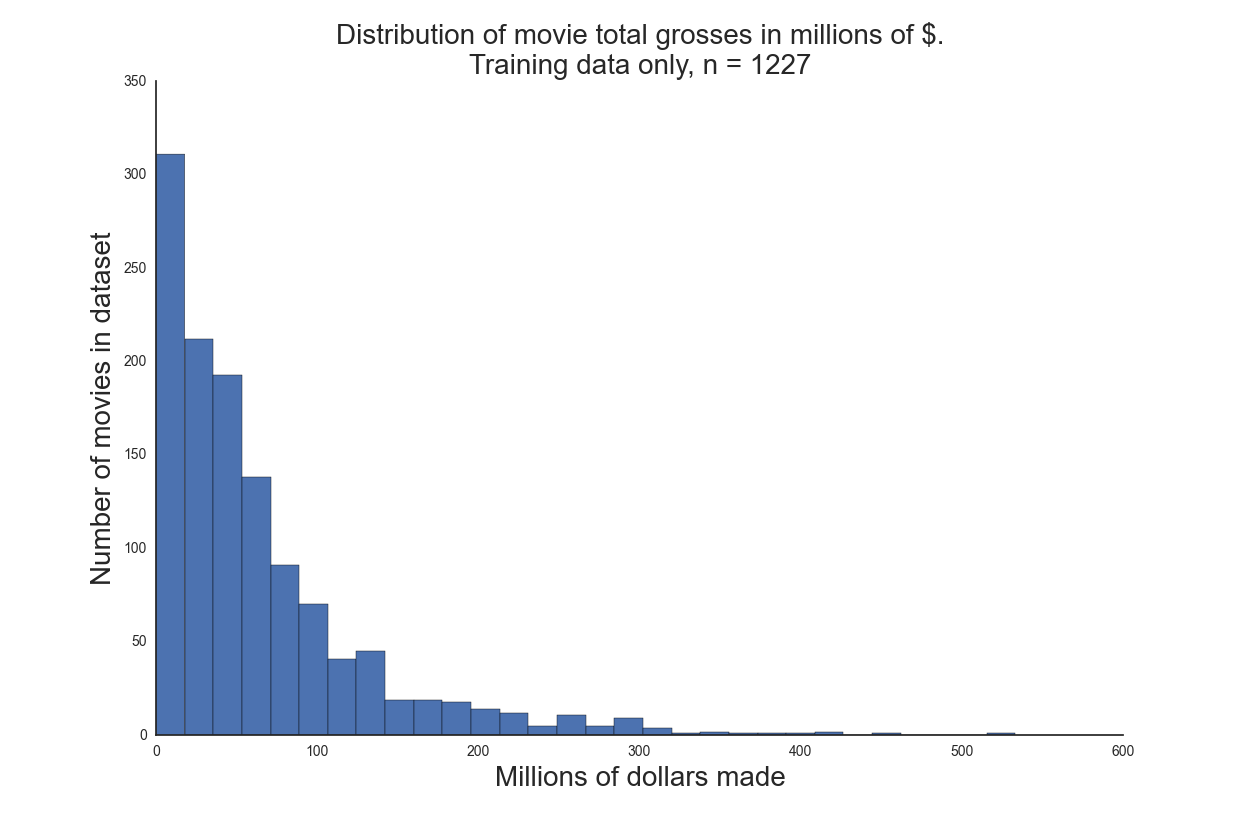
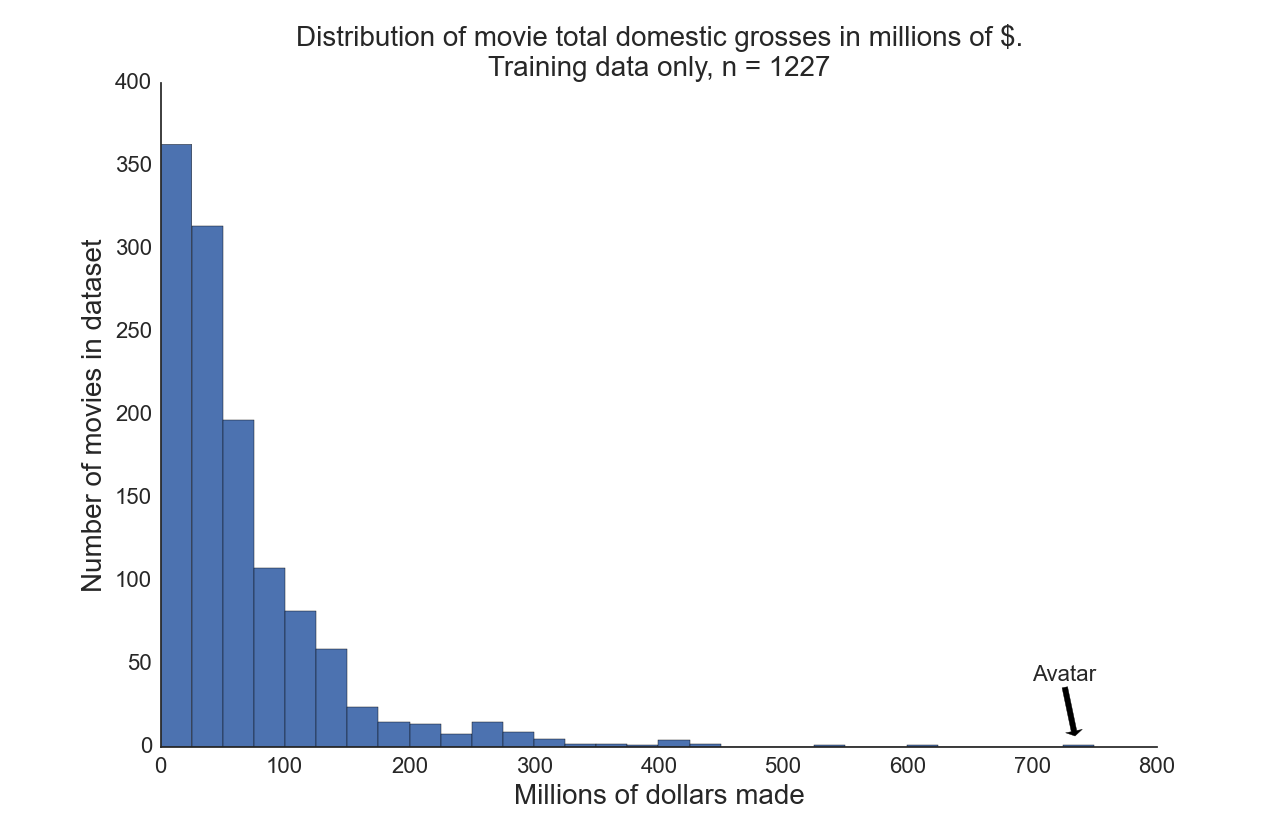
analyses almost complete, several visuals made

diff --git a/analysis/analysis7_final.py b/analysis/analysis7_final.py
@@ -33,11 +33,16 @@ test_data = data.ix[rows]
 
 #Histogram of outcome variable:
 plt.hist(training_data.total_gross/1000000, bins = 30)
-plt.title('Distribution of movie total grosses in millions of $.\nTraining\
+plt.title('Distribution of movie total domestic grosses in millions of $.\nTraining\
  data only, n = 1227', fontsize = '20')
 #The far-right outlier is the Dark Night (2008)
 plt.xlabel('Millions of dollars made', fontsize = '20')
 plt.ylabel('Number of movies in dataset', fontsize = '20')
+plt.xticks(fontsize = '16')
+plt.yticks(fontsize = '16')
+plt.annotate('Avatar', xy=(735, 5), xytext=(700, 40),
+            arrowprops=dict(facecolor='black', shrink=0.05), fontsize = '16'
+            )
 sns.despine()
 plt.show()
 
@@ -45,9 +50,11 @@ plt.show()
 scatter_data = training_data[['log_gross', 'log_release_width', 'metascore', 
     'log_average_fame', 'major_award_wins_or_noms', 
     'log_votecount']]
-sns.pairplot(scatter_data, size = 2.5, )
-plt.xlabel('')
-plt.ylabel('')
+scatter_data.columns = ['log(gross)', 'log(release_width)', 'metascore', 
+    'log(fame)', 'major_awards', 
+    'log(imdb_votecount)']
+sns.pairplot(scatter_data, size = 2).set(xticks = [], yticks = [])
+plt.title('Scatterplot matrix of variables in model')
 plt.show()
 
 #***---RUN MODEL AND EVALUATE-----------------------
@@ -64,26 +71,25 @@ print results.summary()
 #Plot hist of residuals:
 resids2 = results.resid
 plt.hist(resids2)
-plt.title('Histogram of residuals')
+plt.title('Histogram of model residuals', fontsize = '20')
+plt.xlabel('Residual size', fontsize = '20')
+plt.ylabel('Frequency', fontsize = '20')
+plt.xticks(fontsize = '16')
+plt.yticks(fontsize = '16')
+sns.despine()
 plt.show()
 
-#1. Plot the model's predicted ys vs observed ys
-td = training_data
-b = results.params
-predicted_x = b[0] + b[1]*td.log_release_width + b[2]*td.metascore +\
-    b[3]*td.log_average_fame + b[4]*td.imdb_rating +\
-    b[5]*td.major_award_wins_or_noms + b[6]*td.votecount_clean
-
-plt.scatter(results.predict(X), y, facecolors = 'none', edgecolors = 'black')
+#1. Plot the model's predicted ys vs observed ys in test set:
+test_X = test_data[predictors]
+test_X = sm.add_constant(test_X)
+y_predicted = results.predict(test_X)
+plt.scatter(y_predicted, test_data['log_gross'], facecolors = 'none', edgecolors = 'black')
 plt.title('Model predicted log(total_gross) vs observed log(total_gross)')
 plt.xlabel('Overall x')
 plt.ylabel('Observed log(total_gross)')
 plt.show()
 
 #2a Predict test set ys from test set Xs:
-test_X = test_data[predictors]
-test_X = sm.add_constant(test_X)
-y_predicted = results.predict(test_X)
 
 #2b. Plot the model against test set ys
 
